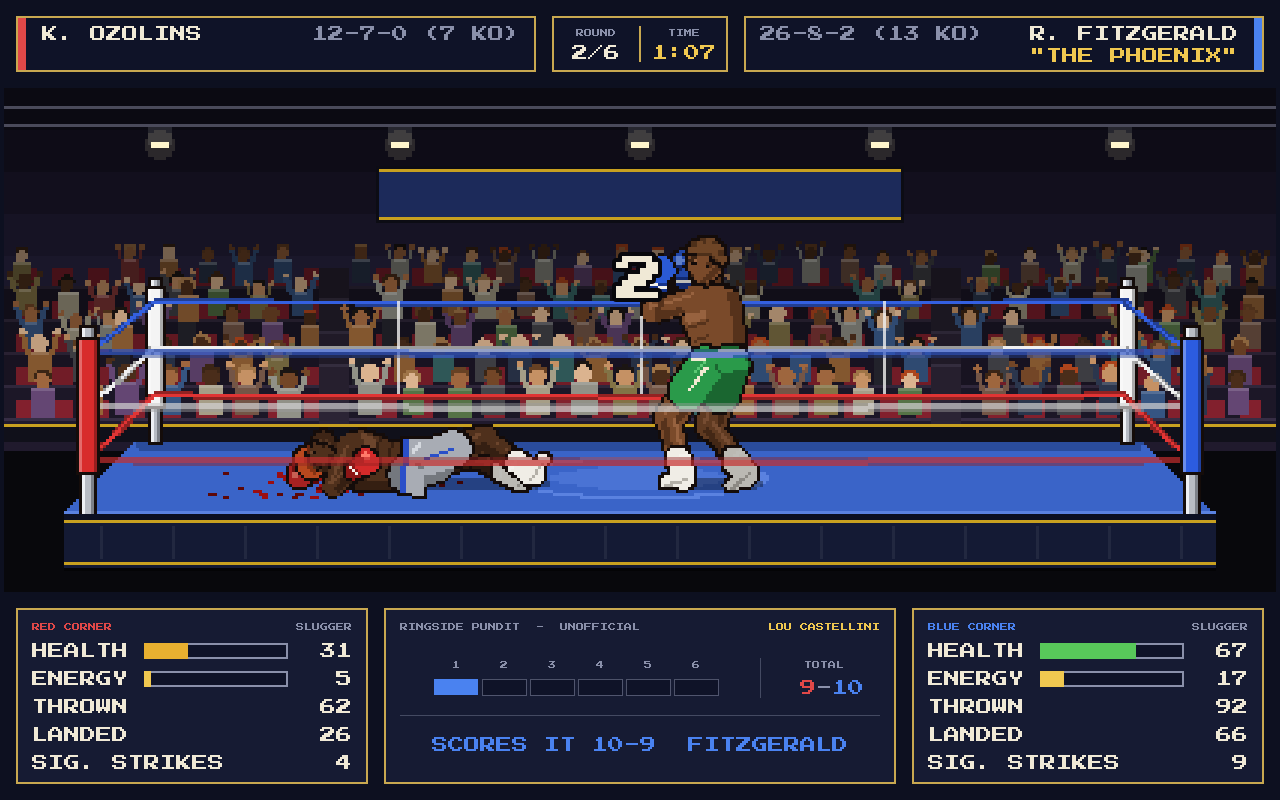
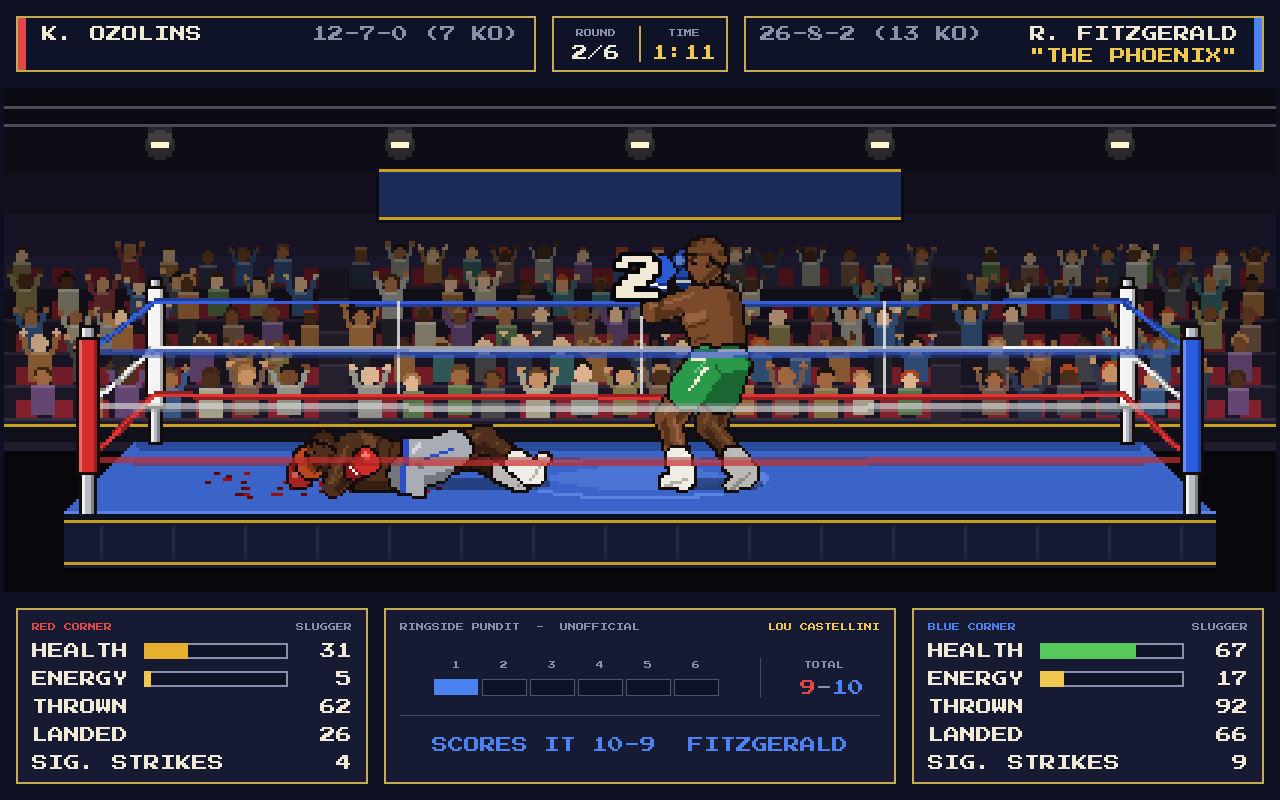
0.1.39: Knockout times read true - the clock runs at real speed during a count
Claude-Session: https://claude.ai/code/session_01PF6KKrB4uHprcLjw7ppdzy

diff --git a/TODO.md b/TODO.md
@@ -15,7 +15,7 @@ Effort: **XS** under an hour, **S** a few hours, **M** about a day,
 
 | #  | Item | Effort | Notes |
 |----|------|--------|-------|
-| 4  | Knockout times: the round clock runs at 3x speed during the count, so about 40% of knockouts are recorded at 3:00 | S | Run the clock at real speed during the count; the time of the stoppage then reads true everywhere (results band, fight stats, archive). |
+| 4  | ~~Knockout times: the round clock runs at 3x speed during the count, so about 40% of knockouts are recorded at 3:00~~ | S | **Done in 0.1.39.** Run the clock at real speed during the count; the time of the stoppage then reads true everywhere (results band, fight stats, archive). |
 | 5  | ~~Rename STRENGTH to TOUGHNESS on screen~~ | XS | **Done in 0.1.35.** It only affects how well he takes punishment, not how hard he hits, so "strength" misleads. Display only. |
 | 6  | Style balance: the Boxer style is noticeably weaker than Brawler and Slugger at the top level | M | Found in the balance tests (it throws about half as many punches). Tune its output or give it more reward for clean work and defence. |
 | 7  | ~~Pound for pound: choose a boxer to open his profile~~ | XS | **Done in 0.1.38.** Rows become buttons; BACK returns to the list. |

diff --git a/CHANGELOG.md b/CHANGELOG.md
@@ -4,6 +4,17 @@ Every build bumps the last number of the version while the game is a
 prototype. The version lives in `project.godot` (`application/config/version`)
 and is shown on the main menu.
 
+## 0.1.39
+
+* Knockout times read true: during a count the round clock now runs at
+  real speed (a count of ten takes ten seconds off it), not three times
+  as fast as in the rest of the round. Before, any man knocked down in a
+  round's last 30 seconds was recorded as stopped at 3:00 - over a third
+  of all knockouts (36% in a test of 180 ten-round fights). Now it is
+  only those counted out as the bell goes (14%), and the rest show the
+  real time on the results band, the fight stats and the fixtures archive.
+  Knockouts are no more or less common (69 and 71 of the 180). (TODO 4)
+
 ## 0.1.38
 
 * Pound for pound: each row is now a button (it lights up like the Boxers

diff --git a/README.md b/README.md
@@ -70,7 +70,9 @@ preset under *Project > Export*.
   boxers' level decides it; `--rounds=<n>` picks another length for
   testing. Each round is
   **1 minute of real time**, but the clock shows
-  **3:00** and counts down at three times real speed.
+  **3:00** and counts down at three times real speed - except during a
+  count, when it runs at real speed (a count of ten takes ten seconds off
+  the clock), so the time of a knockout reads true.
 * The **bell** rings once (a short, soft ring) to start each round, and
   three times to end it. At the bell both boxers walk briskly out of their
   corners and meet in the middle in about 3 seconds; only a really
